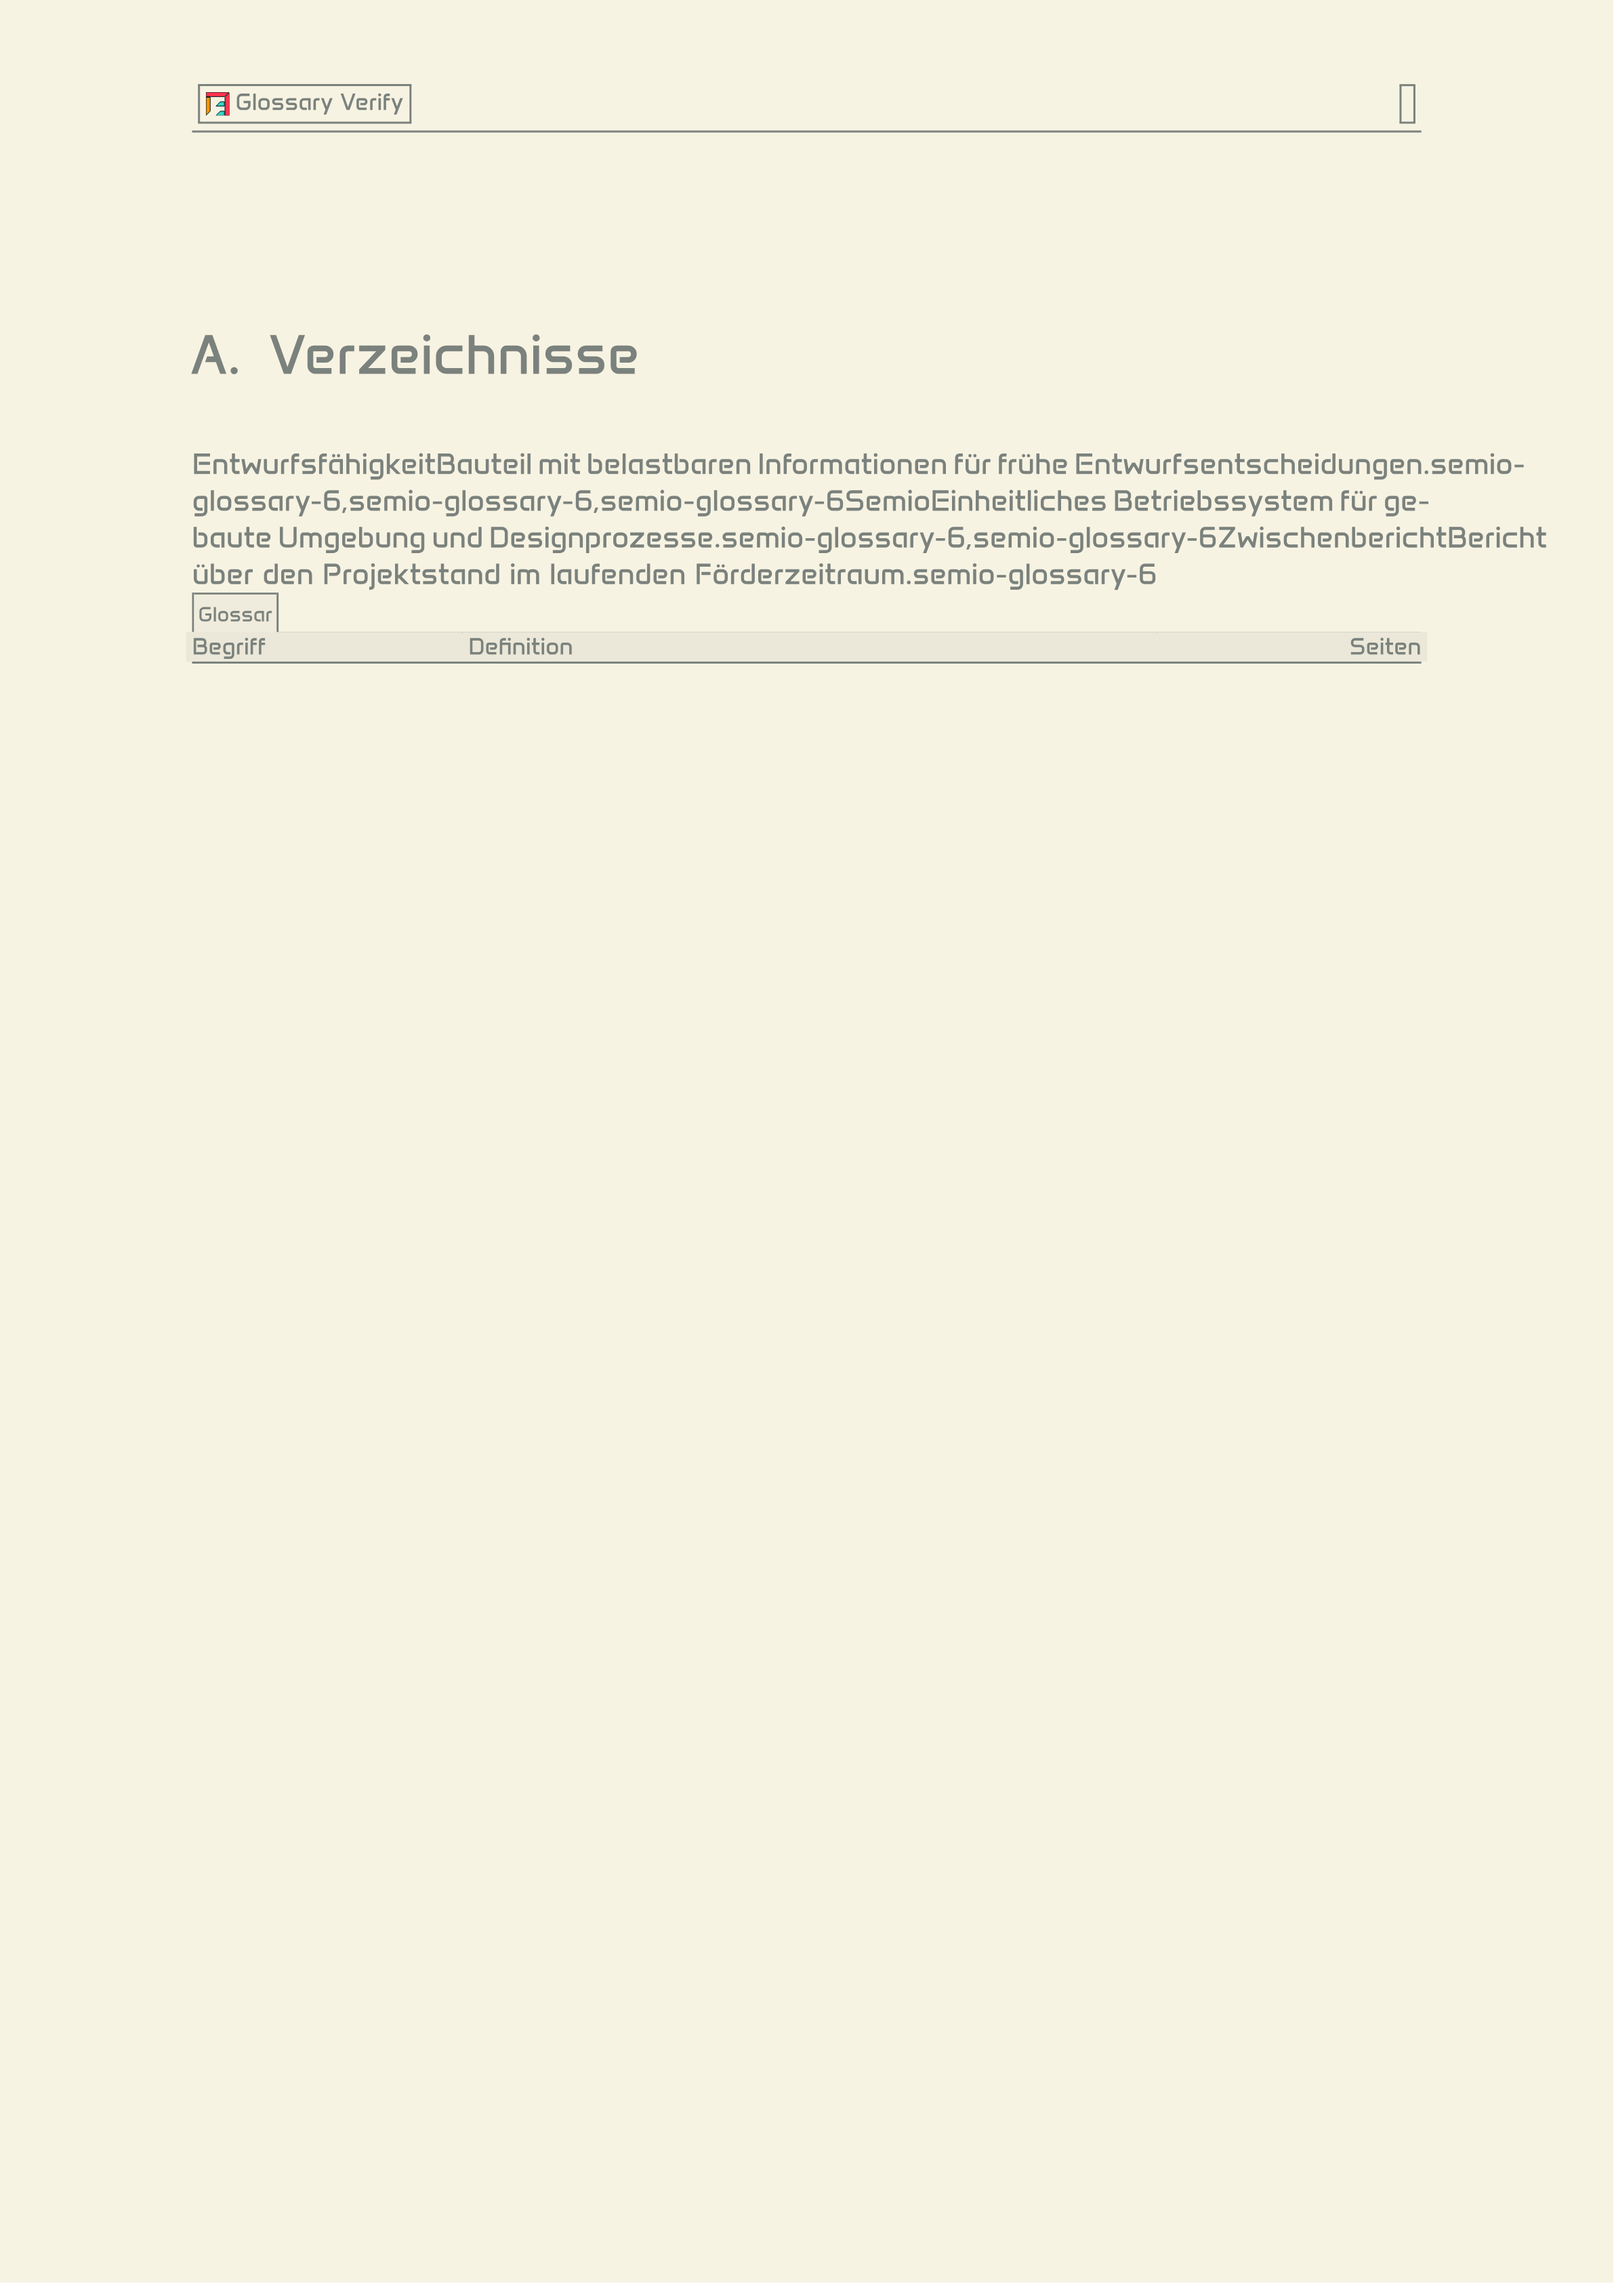
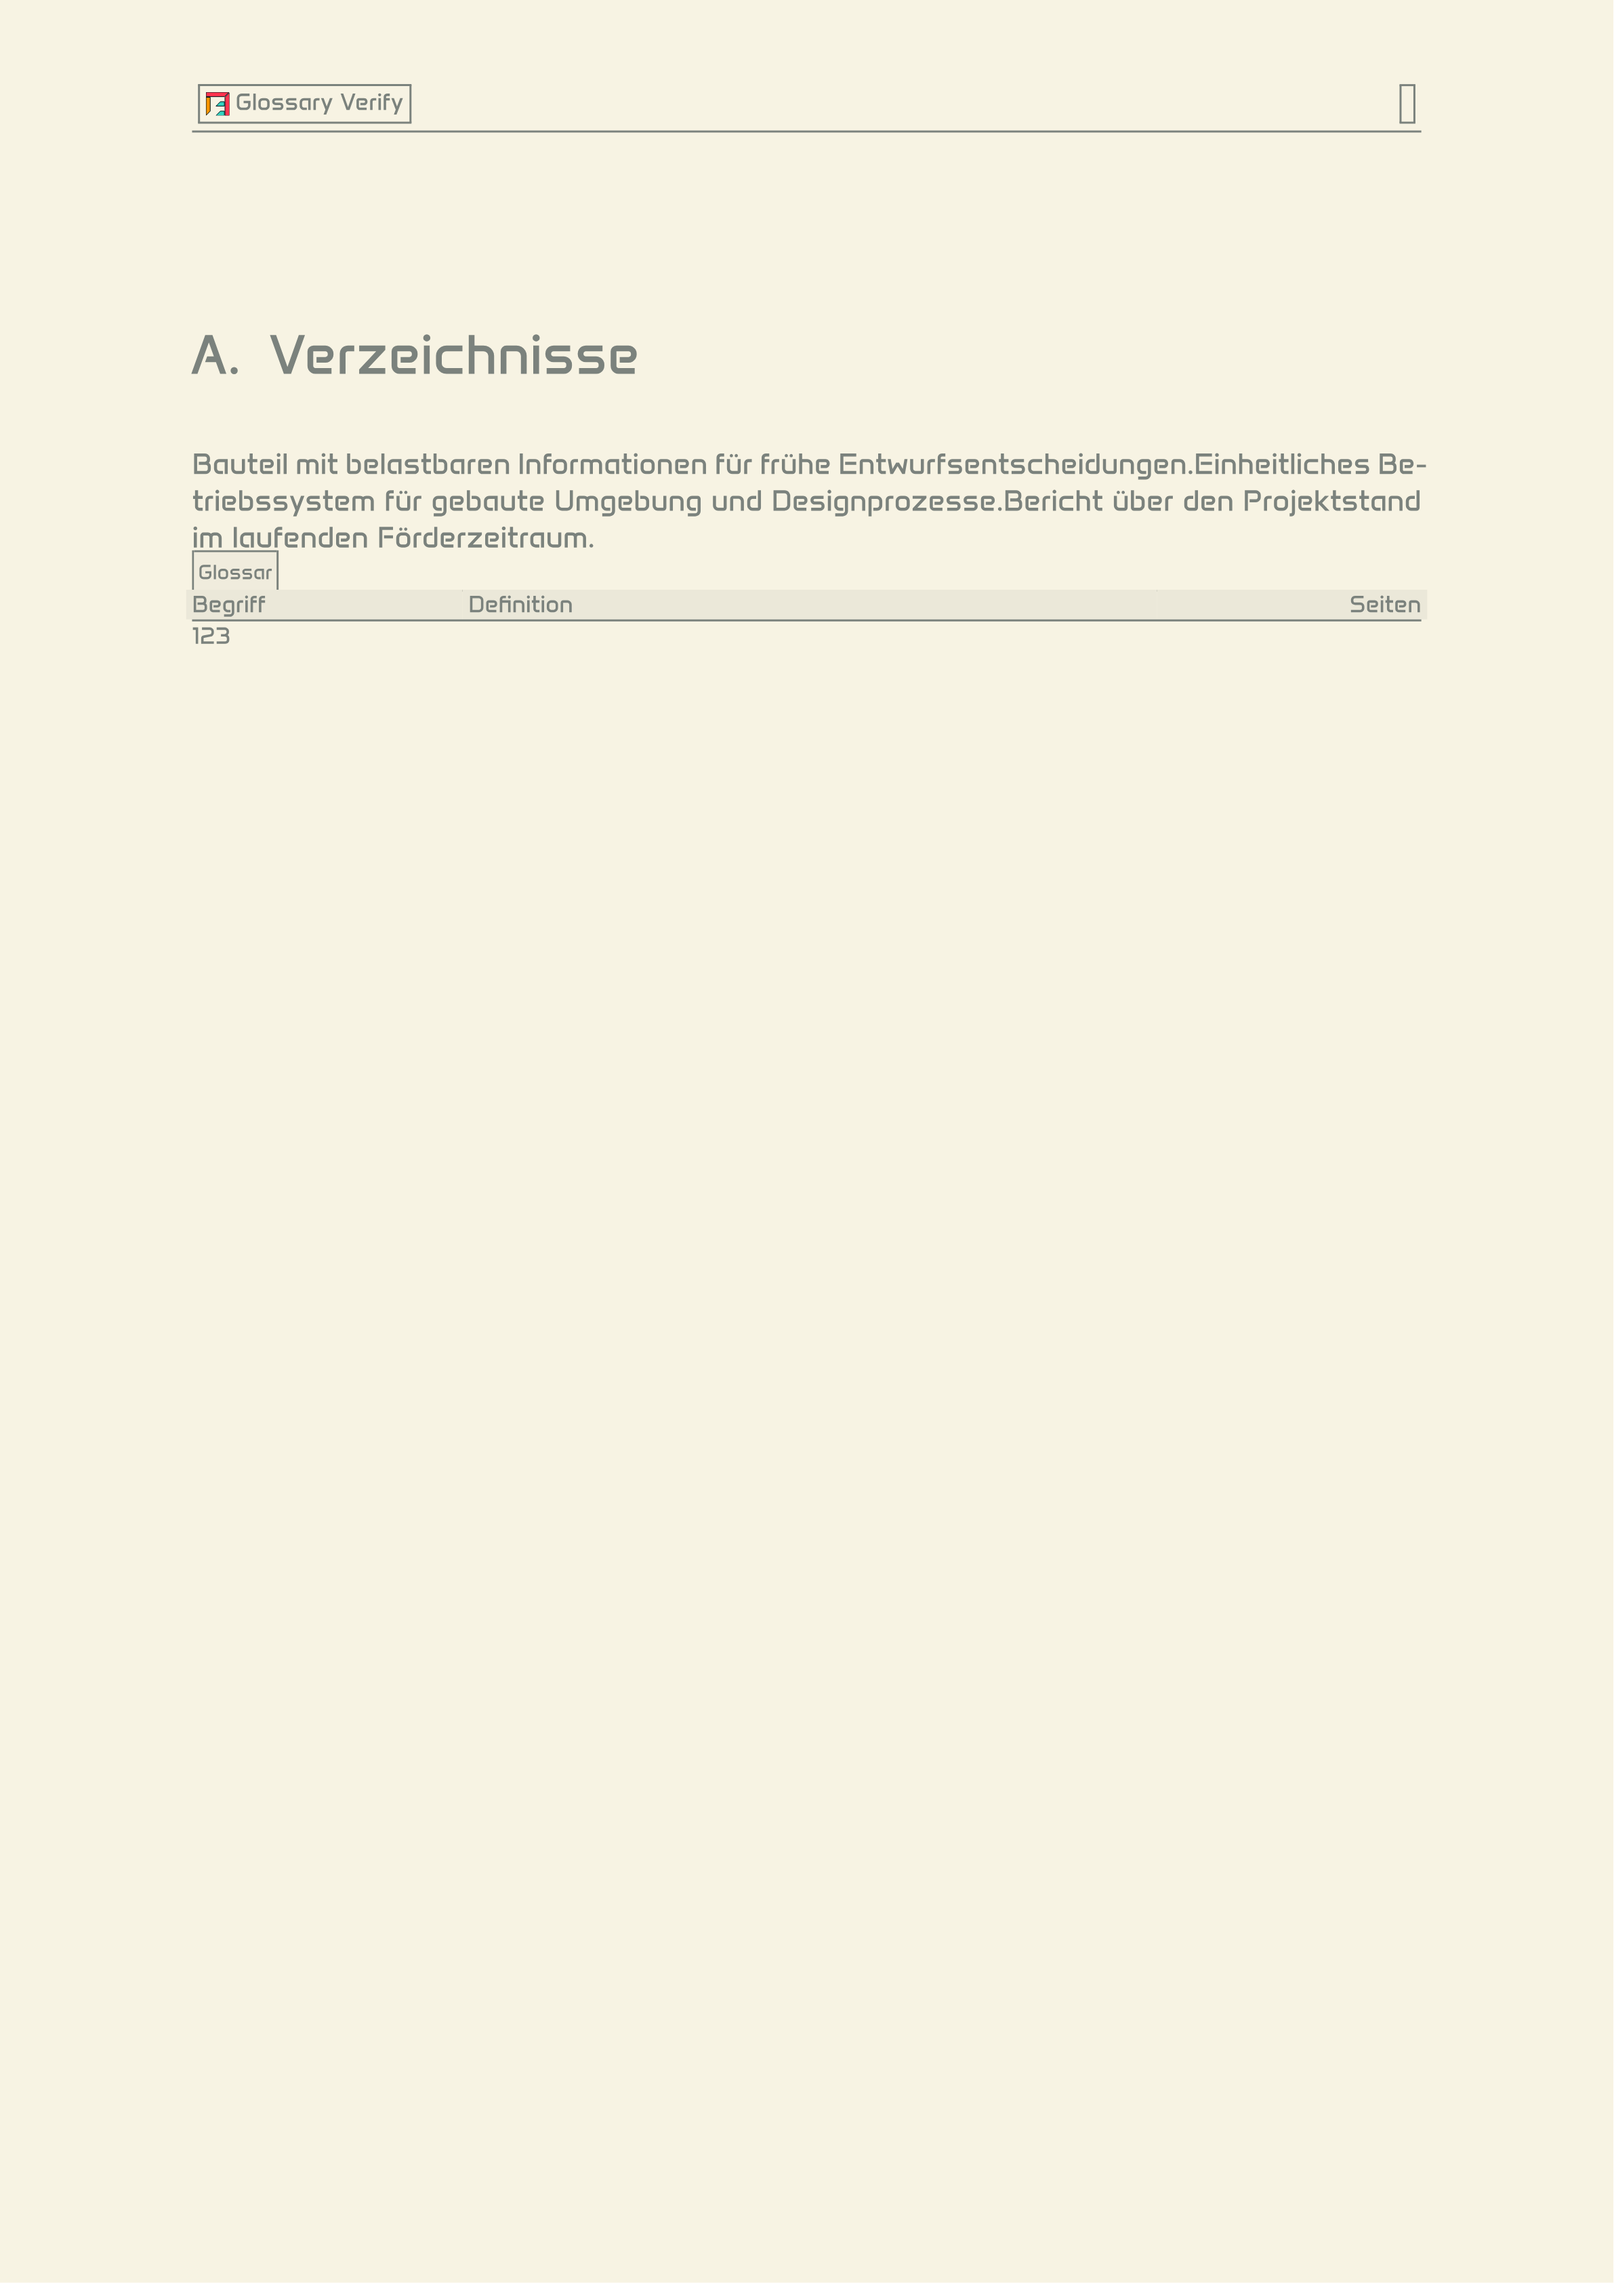
168

Changed region(s): [[0.0932, 0.1871, 0.9631, 0.3118]]

diff --git a/mit-bestand/bericht/zwischenbericht/zwischenbericht-dark.tex b/mit-bestand/bericht/zwischenbericht/zwischenbericht-dark.tex
@@ -94,12 +94,19 @@ Das Vorhaben untersucht, wie wiederverwendete Baukomponenten in frühen Entwurfs
 
 Vier Forschungsfragen leiten die Arbeit:
 
-\begin{enumerate}
-\item Wie lassen sich heterogene Baukomponenten verallgemeinern/systematisieren, damit sie möglichst flexibel in neuen Entwurfssituationen eingesetzt werden können?
-\item Wie können Bauteilbörsen mit minimalem Aufwand planungsfähige Daten bereitstellen?
-\item Wie können gleichzeitig Entwurfs-, LCA- und Tragwerksmodelle erstellt/modifiziert/evaluiert werden?
-\item Wie kann KI, insbesondere LLMs, während dem Entwurfsprozess unterstützen?
-\end{enumerate}
+\begin{SemioNest}
+\paragraph{Systematisierung}
+Wie lassen sich heterogene Baukomponenten verallgemeinern/systematisieren, damit sie möglichst flexibel in neuen Entwurfssituationen eingesetzt werden können?
+
+\paragraph{Aufwandsminimierung}
+Wie können Bauteilbörsen mit minimalem Aufwand planungsfähige Daten bereitstellen?
+
+\paragraph{Synchronisierung}
+Wie können gleichzeitig Entwurfs-, LCA- und Tragwerksmodelle erstellt/modifiziert/evaluiert werden?
+
+\paragraph{Assistenz}
+Wie kann KI, insbesondere LLMs, während dem Entwurfsprozess unterstützen?
+\end{SemioNest}
 
 Der Zwischenbericht folgt dabei der Struktur der Arbeitspakete. AP-Erfahrung leitet aus der Recherche und den Interviews User Stories ab. Die User Stories definieren die fachlichen Anforderungen für die Plattform und für das Tool. AP-Plattform und AP-Tool übersetzen diese Anforderungen in digitale Systemkomponenten. AP-Validierung prüft die entwickelten Ansätze anhand eines Test-Cases.
 

diff --git a/mit-bestand/bericht/zwischenbericht/zwischenbericht.tex b/mit-bestand/bericht/zwischenbericht/zwischenbericht.tex
@@ -94,12 +94,19 @@ Das Vorhaben untersucht, wie wiederverwendete Baukomponenten in frühen Entwurfs
 
 Vier Forschungsfragen leiten die Arbeit:
 
-\begin{enumerate}
-\item Wie lassen sich heterogene Baukomponenten verallgemeinern/systematisieren, damit sie möglichst flexibel in neuen Entwurfssituationen eingesetzt werden können?
-\item Wie können Bauteilbörsen mit minimalem Aufwand planungsfähige Daten bereitstellen?
-\item Wie können gleichzeitig Entwurfs-, LCA- und Tragwerksmodelle erstellt/modifiziert/evaluiert werden?
-\item Wie kann KI, insbesondere LLMs, während dem Entwurfsprozess unterstützen?
-\end{enumerate}
+\begin{SemioNest}
+\paragraph{Systematisierung}
+Wie lassen sich heterogene Baukomponenten verallgemeinern/systematisieren, damit sie möglichst flexibel in neuen Entwurfssituationen eingesetzt werden können?
+
+\paragraph{Aufwandsminimierung}
+Wie können Bauteilbörsen mit minimalem Aufwand planungsfähige Daten bereitstellen?
+
+\paragraph{Synchronisierung}
+Wie können gleichzeitig Entwurfs-, LCA- und Tragwerksmodelle erstellt/modifiziert/evaluiert werden?
+
+\paragraph{Assistenz}
+Wie kann KI, insbesondere LLMs, während dem Entwurfsprozess unterstützen?
+\end{SemioNest}
 
 Der Zwischenbericht folgt dabei der Struktur der Arbeitspakete. AP-Erfahrung leitet aus der Recherche und den Interviews User Stories ab. Die User Stories definieren die fachlichen Anforderungen für die Plattform und für das Tool. AP-Plattform und AP-Tool übersetzen diese Anforderungen in digitale Systemkomponenten. AP-Validierung prüft die entwickelten Ansätze anhand eines Test-Cases.
 

diff --git a/.repo/🎫/26/07/08/TOC-SEMIO-WINDOW-TABLES/verify-log.md b/.repo/🎫/26/07/08/TOC-SEMIO-WINDOW-TABLES/verify-log.md
@@ -6,14 +6,14 @@
 cd mit-bestand/bericht && bun ./script.ts build
 ```
 
-Result: `zwischenbericht.pdf` (12 pages), no `Overfull \vbox` on TOC.
+Result: `zwischenbericht.pdf` (11 pages), no `Overfull \vbox` on TOC.
 
 ## PDF text extraction (pdfjs)
 
 | Check | Result |
 |-------|--------|
-| TOC spans multiple pages | pages 2–3 |
-| Window title on continuation | `Inhalt` on page 2 and page 3 |
+| TOC spans multiple pages | pages 2–3 (~67 + ~43 entries) |
+| Window title on continuation | `Inhaltsverzeichnis` on page 3 |
 | Column header repeated | `Nr` / `Titel` / `Seite` on pages 2–3 |
 | Late entries present | `Ergebnisverwertung`, `Verzeichnisse` (section A) on TOC pages |
 | Body starts after TOC | `Arbeitspaketzuordnung` on page 4 |
@@ -24,4 +24,5 @@ Result: `zwischenbericht.pdf` (12 pages), no `Overfull \vbox` on TOC.
 2. `\ifsemio@table@register@long` was set inside a TeX group — must use `\global\...true`.
 3. Malformed `\endfirsthead` marker (empty head before content).
 4. Inter-row `\noalign{\hrule}` separators prevented `longtable` page breaks — disabled in long mode.
-5. Custom `T`/`U` column preambles with `\vspace` — long mode uses plain `p` columns.
+5. Repeating `SemioTableHeaderRow` (expl3) in `\endhead` forced one row per page — use plain-LaTeX `\semio@table@long@header@repeat@three` on continuation pages.
+6. Continuation window title uses longtable-safe `\semio@heading@cap@muted` hbox row, not full `\semio@window@header@muted` inside `\endhead`.
